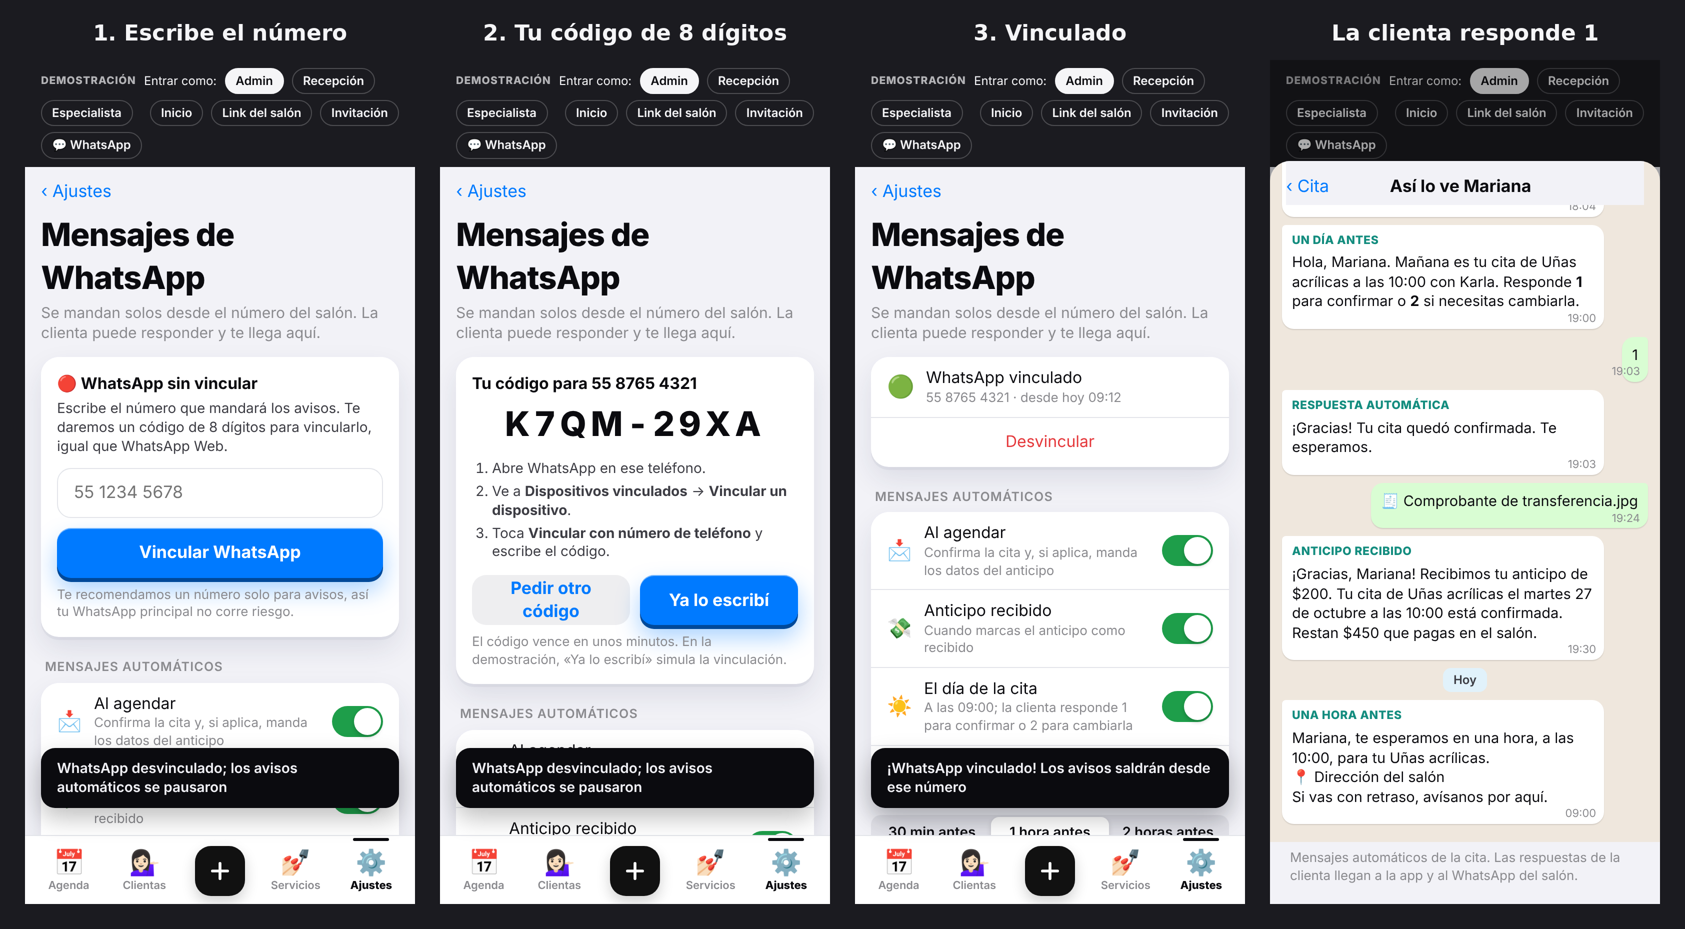
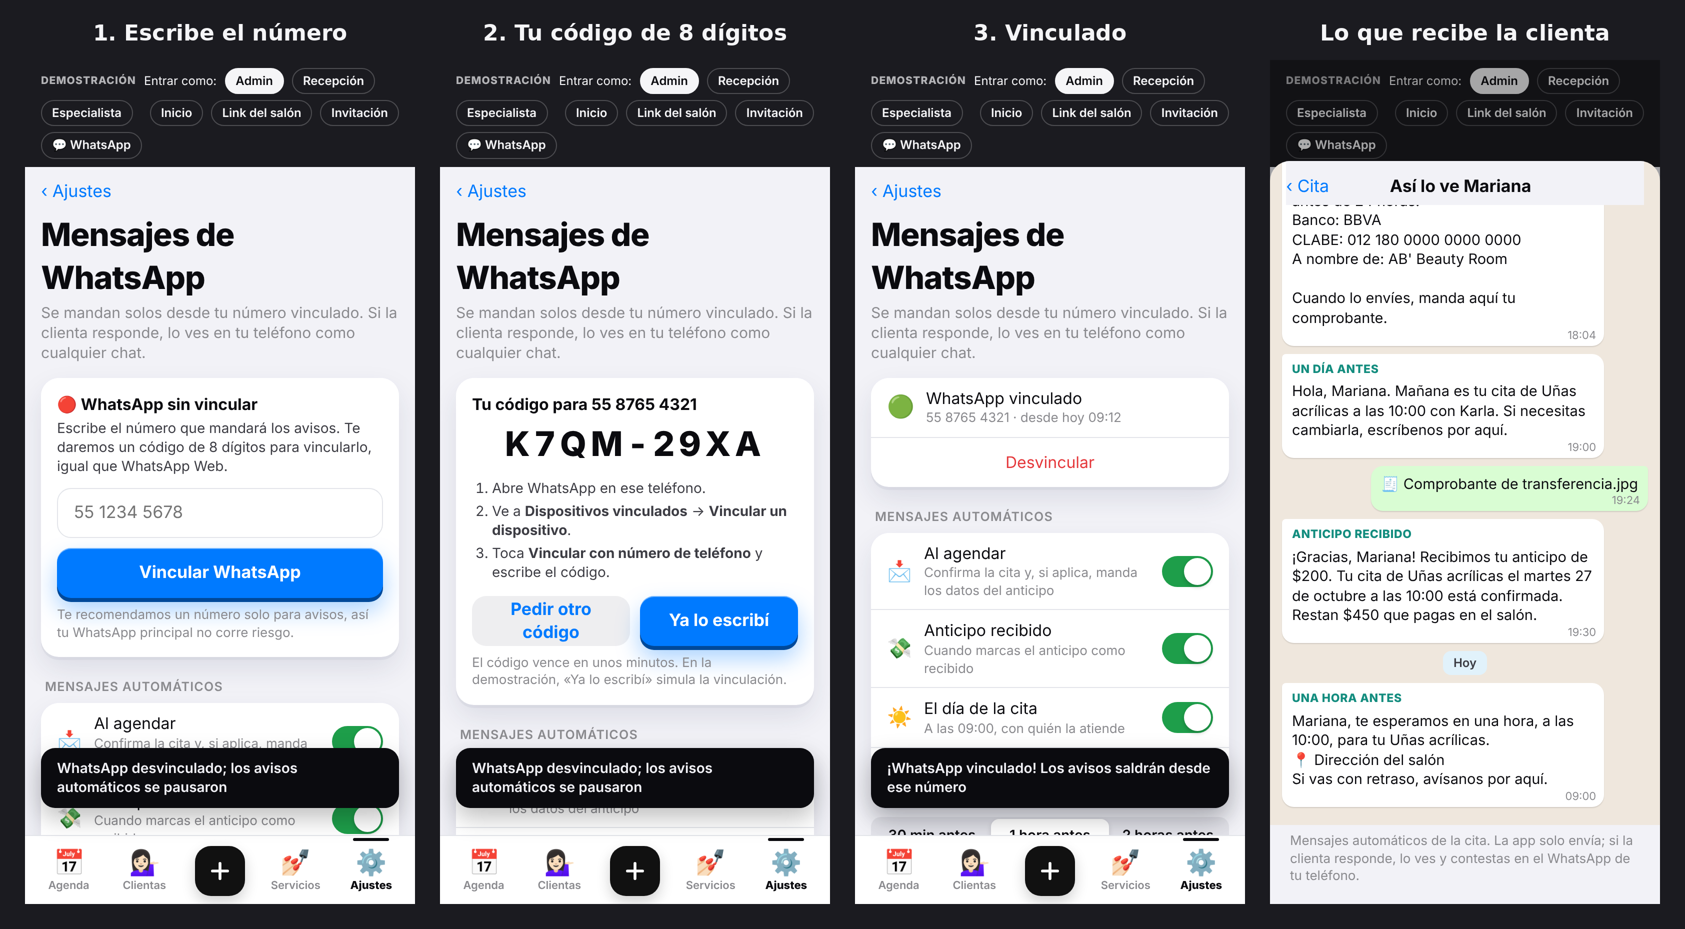
WhatsApp solo envía: no lee, no guarda ni responde mensajes entrantes
Claude-Session: https://claude.ai/code/session_01364FYb5aXB2p36M33N5fWn

diff --git a/ritmo/cuentas/index.html b/ritmo/cuentas/index.html
@@ -456,7 +456,7 @@ h1 { margin: 2px 0 10px; font-size: 32px; font-weight: 800; letter-spacing: -.02
     if (W.agendar) b.push([dC, a ? `Hola ${nom}, apartamos tu cita de ${s.n} el ${fecha} a las ${c.h} con ${m} en AB' Beauty Room.\n\nPara confirmarla, envía tu anticipo de ${money(a)} antes de ${W.plazo} horas:\nBanco: ${W.banco}\nCLABE: ${W.clabe}\nA nombre de: ${W.titular}\n\nCuando lo envíes, manda aquí tu comprobante.` : `Hola ${nom}, tu cita de ${s.n} quedó agendada para el ${fecha} a las ${c.h} con ${m} en AB' Beauty Room. Te recordaremos el día de tu cita.`, hC, 'Al agendar']);
     if (a && W.anticipo && c.pago) { b.push([dP, 'me:🧾 Comprobante de transferencia.jpg', hhmm(mins(hP) - 6)]); b.push([dP, `¡Gracias, ${nom}! Recibimos tu anticipo de ${money(a)}. Tu cita de ${s.n} el ${fecha} a las ${c.h} está confirmada. Restan ${money(resto)} que pagas en el salón.`, hP, 'Anticipo recibido']); }
     if (W.dia && !omiteDia(c)) { const pr = diaPrevio(c), dd = pr ? 'Ayer' : 'Hoy', hh = pr ? '19:00' : W.diaHora;
-      b.push([dd, `${pr ? 'Hola' : 'Buenos días'}, ${nom}. ${pr ? 'Mañana' : 'Hoy'} es tu cita de ${s.n} a las ${c.h} con ${m}. Responde *1* para confirmar o *2* si necesitas cambiarla.`, hh, pr ? 'Un día antes' : 'Día de la cita'], [dd, 'me:1', hhmm(mins(hh) + 3)], [dd, '¡Gracias! Tu cita quedó confirmada. Te esperamos.', hhmm(mins(hh) + 3), 'Respuesta automática']); }
+      b.push([dd, `${pr ? 'Hola' : 'Buenos días'}, ${nom}. ${pr ? 'Mañana' : 'Hoy'} es tu cita de ${s.n} a las ${c.h} con ${m}. Si necesitas cambiarla, escríbenos por aquí.`, hh, pr ? 'Un día antes' : 'Día de la cita']); }
     if (W.antes) b.push(['Hoy', `${nom}, te esperamos en ${W.antesMin === 60 ? 'una hora' : W.antesMin + ' minutos'}, a las ${c.h}, para tu ${s.n}.\n📍 ${DIRECCION}\nSi vas con retraso, avísanos por aquí.`, hhmm(mins(c.h) - W.antesMin), W.antesMin === 60 ? 'Una hora antes' : 'Antes de la cita']);
     const orden = d => d === 'Hoy' ? 2 : d === 'Ayer' ? 1 : 0;
     b.sort((x, y) => orden(x[0]) - orden(y[0]) || x[2].localeCompare(y[2]));
@@ -467,7 +467,7 @@ h1 { margin: 2px 0 10px; font-size: 32px; font-weight: 800; letter-spacing: -.02
       return sep + `<div class="bub"><span class="lbl">${lbl}</span>${esc(txt).replace(/\*(.+?)\*/g, '<b>$1</b>')}<time>${h}</time></div>${qr ? `<div class="qr">${qr.map(x => `<span>${x}</span>`).join('')}</div>` : ''}`; }).join('')}</div>`; };
   const verChat = id => { const c = CITAS.find(x => x.id === id);
     sheet(`<div class="nav"><button type="button" data-cita="${c.id}">‹ Cita</button><b>Así lo ve ${esc(CLIENTAS[c.cl][0].split(' ')[0])}</b><span style="width:52px"></span></div>${chat(c)}
-      <p class="foot">Mensajes automáticos de la cita. Las respuestas de la clienta llegan a la app y al WhatsApp del salón.</p>`); };
+      <p class="foot">Mensajes automáticos de la cita. La app solo envía; si la clienta responde, lo ves y contestas en el WhatsApp de tu teléfono.</p>`); };
 
   const verCita = id => { const c = CITAS.find(x => x.id === id), s = serv(c.s), m = miembro(c.st), [n, t] = CLIENTAS[c.cl];
     sheet(`<div class="nav"><button type="button" data-act="cerrar">Cerrar</button><b>Cita</b><span style="width:52px"></span></div>
@@ -563,12 +563,12 @@ h1 { margin: 2px 0 10px; font-size: 32px; font-weight: 800; letter-spacing: -.02
   const sw = (k, label) => `<button type="button" class="sw" role="switch" aria-label="${label}" aria-checked="${!!W[k]}" data-w="${k}"></button>`;
   const whatsapp = () => {
     return `<div class="nav"><button type="button" data-sub="">‹ Ajustes</button></div><h1>Mensajes de WhatsApp</h1>
-      <p class="sub">Se mandan solos desde el número del salón. La clienta puede responder y te llega aquí.</p>
+      <p class="sub">Se mandan solos desde tu número vinculado. Si la clienta responde, lo ves en tu teléfono como cualquier chat.</p>
       ${vinculo()}
       <p class="gh">Mensajes automáticos</p><div class="group">
         <div class="cell"><span class="e" style="font-size:20px">📩</span><span class="l">Al agendar<small>Confirma la cita y, si aplica, manda los datos del anticipo</small></span>${sw('agendar', 'Al agendar')}</div>
         <div class="cell"><span class="e" style="font-size:20px">💸</span><span class="l">Anticipo recibido<small>Cuando marcas el anticipo como recibido</small></span>${sw('anticipo', 'Anticipo recibido')}</div>
-        <div class="cell"><span class="e" style="font-size:20px">☀</span><span class="l">El día de la cita<small>A las ${W.diaHora}; la clienta responde 1 para confirmar o 2 para cambiarla</small></span>${sw('dia', 'El día de la cita')}</div>
+        <div class="cell"><span class="e" style="font-size:20px">☀</span><span class="l">El día de la cita<small>A las ${W.diaHora}, con quién la atiende</small></span>${sw('dia', 'El día de la cita')}</div>
         <div class="cell"><span class="e" style="font-size:20px">⏰</span><span class="l">Antes de la cita<small>Con la ubicación del salón</small></span>${sw('antes', 'Antes de la cita')}</div></div>
       <div class="seg" role="tablist" aria-label="Cuánto antes" style="margin-top:10px">${[30, 60, 120].map(v => `<button type="button" role="tab" data-antes="${v}" aria-selected="${W.antesMin === v}">${v === 120 ? '2 horas' : v === 60 ? '1 hora' : '30 min'} antes</button>`).join('')}</div>
       <p class="foot">Si la cita es menos de 2 horas después de las ${W.diaHora}, el mensaje del día sale la noche anterior a las 19:00. Nunca se manda nada entre 21:00 y 8:00.</p>
@@ -581,7 +581,7 @@ h1 { margin: 2px 0 10px; font-size: 32px; font-weight: 800; letter-spacing: -.02
         <label class="cell"><span class="l">Banco</span><input class="in" id="wBanco" value="${esc(W.banco)}" style="max-width:190px;min-height:36px;border:0;text-align:right;padding:0"></label>
         <label class="cell"><span class="l">CLABE</span><input class="in" id="wClabe" value="${esc(W.clabe)}" inputmode="numeric" style="max-width:220px;min-height:36px;border:0;text-align:right;padding:0;font-variant-numeric:tabular-nums"></label>
         <label class="cell"><span class="l">A nombre de</span><input class="in" id="wTit" value="${esc(W.titular)}" style="max-width:190px;min-height:36px;border:0;text-align:right;padding:0"></label></div>
-      <p class="foot">La CLABE es de ejemplo. La clienta manda su comprobante por WhatsApp y aparece en la cita para que lo revises.</p>
+      <p class="foot">La CLABE es de ejemplo. La clienta te manda su comprobante al chat; lo revisas en tu teléfono y aquí marcas el anticipo como recibido.</p>
       <p class="gh">Hoy</p><div class="group"><div class="cell"><span class="l">${W.hoy} mensajes enviados<small>Sin costo por mensaje · pausas de 20 a 60 segundos entre cada uno</small></span><span class="r">de ${W.porDia}</span></div></div>
       <p class="foot">Para cuidar tu número: solo se escribe a clientas con cita que aceptaron mensajes, con máximo 30 por hora y ${W.porDia} al día. Si WhatsApp pone un freno, todo se detiene y te avisamos.</p>`; };
   const vinculo = () => {

diff --git a/ritmo/docs/WHATSAPP-AUTOMATICO.md b/ritmo/docs/WHATSAPP-AUTOMATICO.md
@@ -1,6 +1,6 @@
 # WhatsApp automático y anticipo: especificación
 
-Estado: aprobada por Antonio el 27 de octubre de 2026, **con WhatsApp vinculado como en FiNeCi** (código de 8 dígitos) en un servicio de Railway.
+Estado: aprobada por Antonio el 27 de octubre de 2026, **con WhatsApp vinculado como en FiNeCi** (código de 8 dígitos) en un servicio de Railway que **solo envía**.
 - Prototipo: `ritmo/cuentas/index.html`, en la cita (Anticipo, Mensajes de WhatsApp, Ver la conversación), en Ajustes → Mensajes de WhatsApp (Vincular WhatsApp) y en «Pedir cita» del perfil público.
 - Captura: `ritmo/imagenes/whatsapp-anticipo.png`.
 
@@ -15,15 +15,15 @@ Antonio lo autorizó conociendo el riesgo: las condiciones de WhatsApp no permit
 **Railway: servicio nuevo `agendappx-whatsapp`**, en un proyecto propio, separado de FiNeCi. **No toques FiNeCi.**
 - Plan Hobby de Antonio: 1.20 USD usados en 12 días, con un estimado de 2.25 USD de los 5 incluidos, y un límite de gasto de 10 USD compartido con FiNeCi.
 - Es un proceso Node/TypeScript **siempre prendido** (1 réplica) que mantiene la conexión de WhatsApp. Usa una librería de dispositivo vinculado mantenida (por ejemplo Baileys), con la versión fijada. Si FiNeCi ya usa una, toma la misma para repetir lo que ya funciona.
-- Hace todo lo de WhatsApp:
+- **Solo envía** (decisión de Antonio). No es un chatbot:
   - vincula el número;
   - revisa la cola **cada minuto** y manda los mensajes de la sección 1;
-  - recibe respuestas y comprobantes;
   - informa el estado de la conexión.
+- **No lee, no guarda y no procesa mensajes entrantes.** Los eventos de mensajes recibidos se descartan sin guardarlos. Tampoco envía confirmaciones de lectura ni marca chats como leídos, para que el salón vea las respuestas como no leídas en su teléfono.
 - **Sesión de WhatsApp**: se guarda **cifrada** (AES-256-GCM, llave `WA_SESSION_KEY` en Railway) en una tabla de Supabase `whatsapp_sesiones` por negocio. Así no hace falta volumen y sobrevive a reinicios.
 - **Supabase**: rol propio `agendappx_whatsapp` con permisos mínimos:
   - lee citas, clientas, servicios, ajustes y miembros;
-  - escribe la cola, entradas, contactos, sesiones, el estado de la vinculación y los campos de estado, anticipo y respuesta de la cita, y la bitácora.
+  - escribe la cola, sesiones, el estado de la vinculación y el estado de envío de cada mensaje.
   - TLS verificado.
 - **Cloudflare** deja de enviar (`WHATSAPP_REMITENTE=vinculado`). El webhook de Meta y su código se conservan, pero quedan apagados.
 - **Costo esperado**: unos 1.5 a 3 USD al mes por estar prendido (unos 150 a 250 MB de RAM). Sumado a lo actual queda cerca de los 5 USD incluidos y lejos del límite de 10. Configura en Railway una alerta de uso. Codex: informa el consumo real después de una semana.
@@ -46,7 +46,7 @@ Son mensajes normales de texto (no hay plantillas de Meta). Cada uno tiene **2 o
 | 1a | Al crear la cita, si el servicio pide anticipo | Cita apartada y datos del anticipo |
 | 1b | Al crear la cita, sin anticipo | Cita agendada |
 | 2 | Cuando el salón marca el anticipo como recibido | Anticipo recibido |
-| 3 | El día de la cita a las 09:00 (configurable) | Hoy es tu cita, «responde 1 o 2» |
+| 3 | El día de la cita a las 09:00 (configurable) | Hoy es tu cita |
 | 4 | 60 min antes (30, 60 o 120, configurable) | Te esperamos, con la dirección |
 | 5 | La cita cambia de día u hora | Tu cita cambió |
 
@@ -55,11 +55,11 @@ Textos base:
 - **1a**: «Hola {nombre}, apartamos tu cita de {servicio} el {fecha} a las {hora} con {especialista} en {salón}. Para confirmarla, envía tu anticipo de {anticipo} antes de {limite}: Banco: {banco} · CLABE: {clabe} · A nombre de: {titular}. Cuando lo envíes, manda aquí tu comprobante.»
 - **1b**: «Hola {nombre}, tu cita de {servicio} quedó agendada para el {fecha} a las {hora} con {especialista} en {salón}. Te recordaremos el día de tu cita.»
 - **2**: «¡Gracias, {nombre}! Recibimos tu anticipo de {anticipo}. Tu cita de {servicio} el {fecha} a las {hora} está confirmada. Restan {resto} que pagas en el salón.»
-- **3**: «Buenos días, {nombre}. Hoy es tu cita de {servicio} a las {hora} con {especialista}. Responde *1* para confirmar o *2* si necesitas cambiarla.»
+- **3**: «Buenos días, {nombre}. Hoy es tu cita de {servicio} a las {hora} con {especialista}. Si necesitas cambiarla, escríbenos por aquí.»
 - **4**: «{nombre}, te esperamos en {tiempo}, a las {hora}, para tu {servicio}. 📍 {dirección}. Si vas con retraso, avísanos por aquí.»
 - **5**: «Hola {nombre}, tu cita de {servicio} cambió al {fecha} a las {hora} con {especialista}. Si no te queda, responde a este mensaje.»
 
-No se usan botones interactivos, porque en dispositivos vinculados no son confiables. Se responde con «1» o «2».
+No hay botones ni respuestas automáticas. Si la clienta contesta, lo lee y responde una persona del salón desde el teléfono.
 
 ## 2. Reglas de envío y protecciones (obligatorias)
 
@@ -92,18 +92,16 @@ No se usan botones interactivos, porque en dispositivos vinculados no son confia
   - datos de transferencia: banco, CLABE (18 dígitos, validada con su dígito de control) y titular.
 - **En la cita**: `data.anticipo = { monto, estado: 'pendiente' | 'recibido' | 'vencido' | 'no_aplica', recibidoEn, recibidoPor, metodo, comprobante }`.
   - La cita queda «Apartada» hasta recibir el anticipo y pasa a «Confirmada» al recibirlo.
-- **Comprobante**: si la clienta manda una imagen o PDF mientras su cita tiene anticipo pendiente, el servicio lo descarga, lo guarda privado (Supabase Storage o R2) y lo adjunta a la cita como «Comprobante por revisar».
-  - **Nunca confirma solo**: Admin o Recepción revisa y toca «Marcar anticipo recibido», lo que dispara el #2.
+- **Comprobante**: la clienta lo manda al chat y el salón lo ve en su teléfono. El servicio no lo lee.
+  - Admin o Recepción revisa la transferencia y toca «Marcar anticipo recibido» en la cita, lo que dispara el #2. Opcional: adjuntar a mano una foto del comprobante a la cita.
 - **Vencido**: al terminar el plazo se avisa a Admin y Recepción («El anticipo de Daniela venció: ¿liberar el horario?»). El horario **no se libera solo**.
 - **Futuro**: un link de pago de Mercado Pago que marque el anticipo como recibido automáticamente.
 
 ## 4. Respuestas de la clienta
 
-- «1» (o «sí», «confirmo»): la cita queda `confirmada`.
-- «2» (o «cambiar»): queda `solicitaCambio: true` y aparece arriba en la Agenda con aviso para el salón.
-- Cualquier otro texto se muestra en la cita para responder a mano.
-- Se mantiene la lógica actual de cita inequívoca: si la clienta tiene varias citas próximas, no se adivina.
-- Como es el mismo WhatsApp del número vinculado, la conversación también se ve en el teléfono, donde se puede contestar normalmente.
+- El servicio **no las lee**: llegan al WhatsApp del número vinculado y el salón las contesta a mano desde el teléfono.
+- Confirmar, cambiar o cancelar una cita lo hace el equipo en la app, con lo que la clienta le diga.
+- Si después se quiere confirmar con «1» o «2», se agrega como opción aparte. Por ahora está fuera de alcance.
 
 ## 5. Lo que necesita Antonio
 
@@ -118,8 +116,8 @@ No se usan botones interactivos, porque en dispositivos vinculados no son confia
 - Las pausas entre mensajes se respetan (prueba con reloj simulado).
 - El #3 se omite al agendar el mismo día con menos de 3 h; el #4 se omite con menos de 90 min.
 - Mover una cita invalida los pendientes, manda el #5 y reprograma los recordatorios. Cancelar invalida todo.
-- Un comprobante recibido no confirma la cita; «Marcar anticipo recibido» sí, y manda el #2 una sola vez.
-- Un mensaje entrante repetido no duplica entradas ni cambios.
+- «Marcar anticipo recibido» manda el #2 una sola vez.
+- Un mensaje entrante no se guarda, no cambia ninguna cita y no se marca como leído.
 - Reiniciar el servicio no pierde la sesión ni repite mensajes. Con la sesión cerrada, la app muestra «desconectado» y nada queda «enviado» por error.
 - El freno de emergencia detiene todo ante errores de bloqueo.
 - La sesión guardada no se puede leer sin `WA_SESSION_KEY`.
